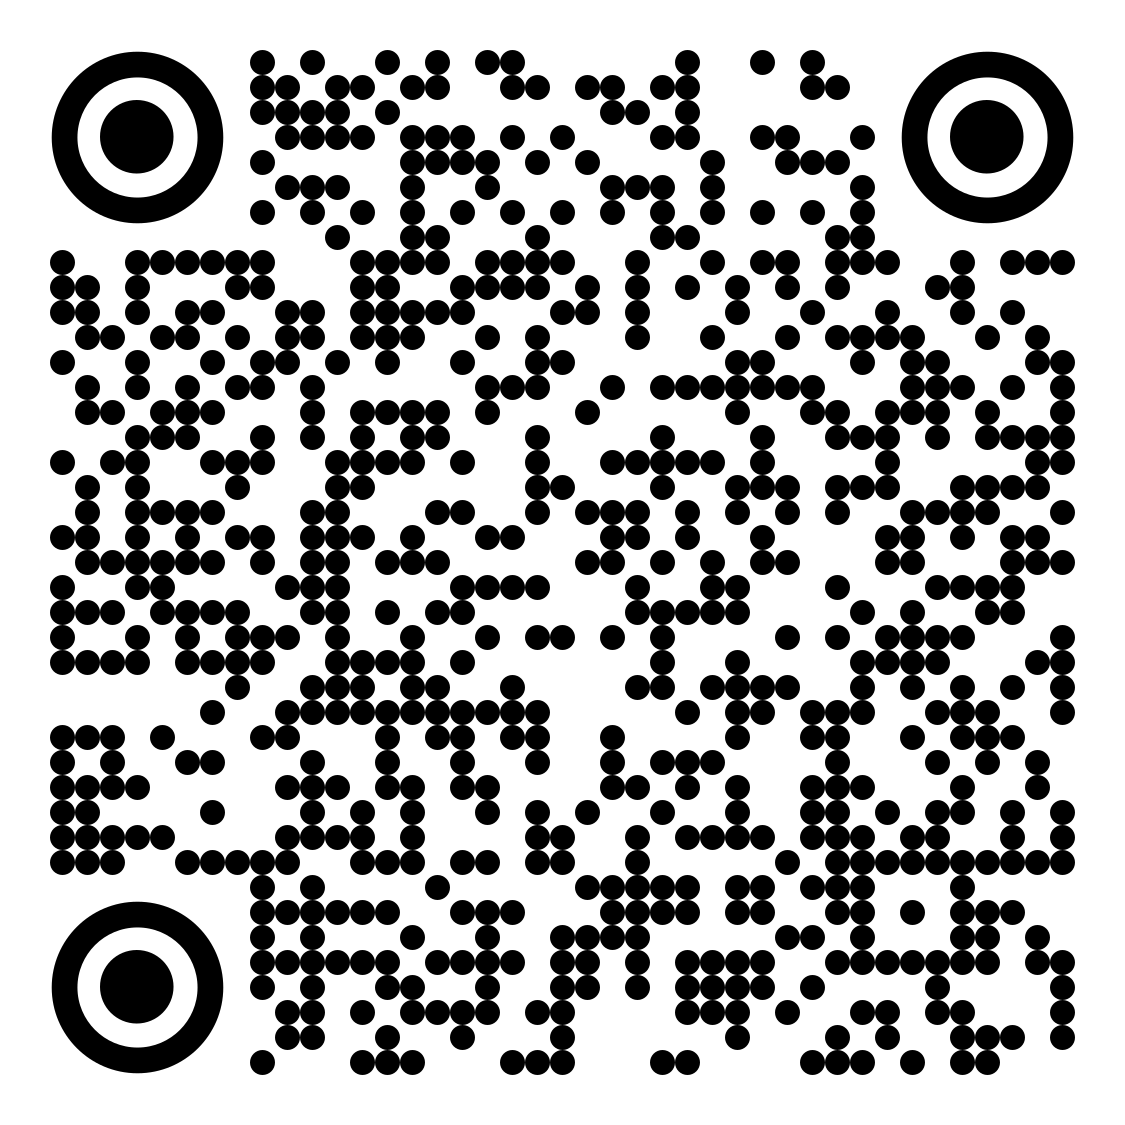
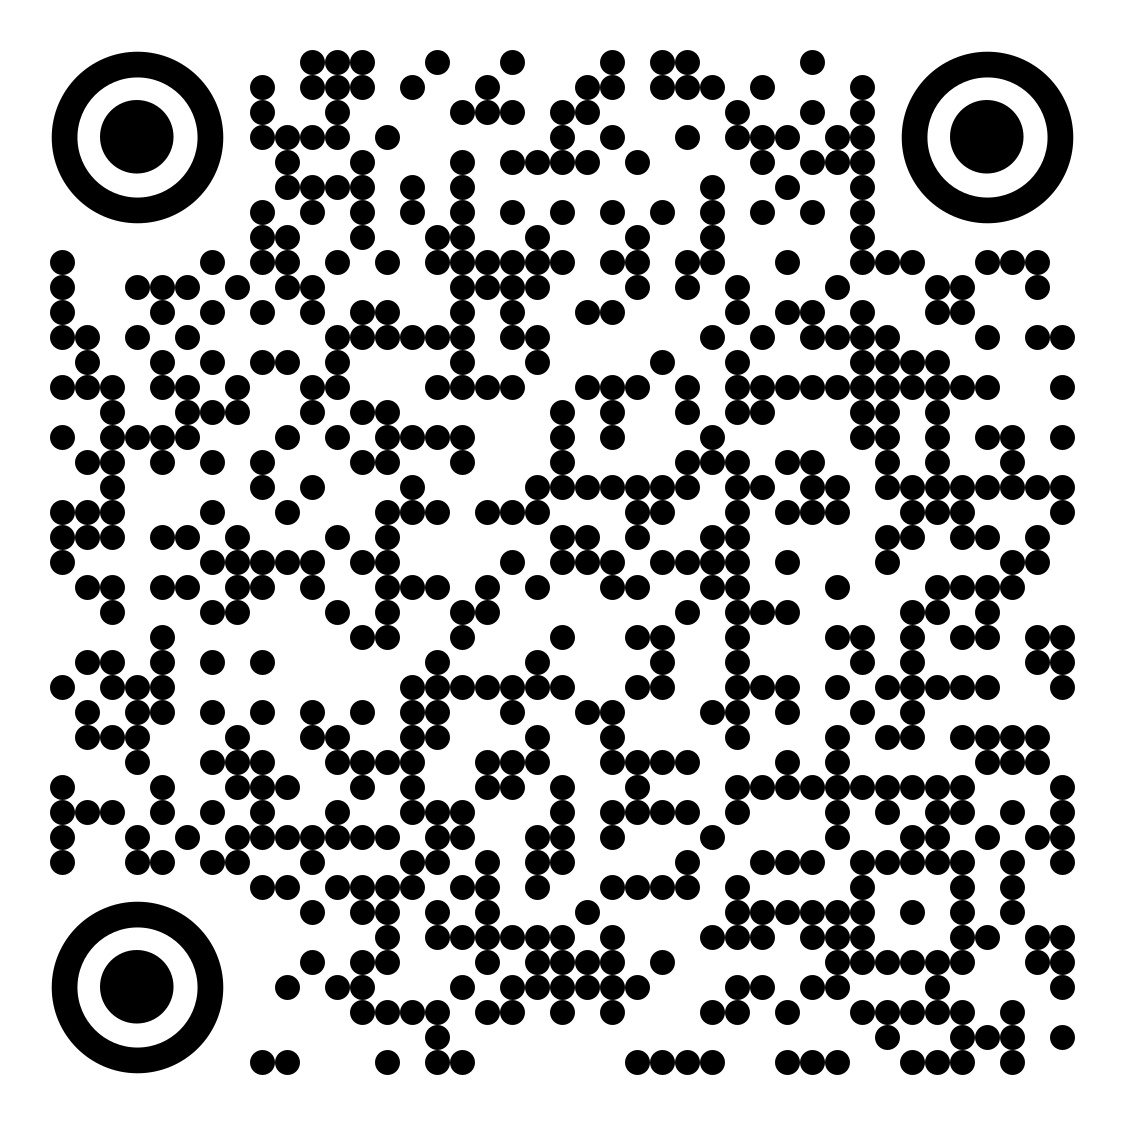
Update QR codes for web

diff --git a/app.js b/app.js
@@ -1,7 +1,7 @@
 const projects = {
   "dobrynya-m2": {
     label: "Добрыня М2",
-    qr: "./assets/dobrynya-m2.png",
+    qr: "./assets/dobrynya-m2.png?v=20260807-qr-2",
     defaultPackage: "Жилой дом. Утепление 200",
     defaultTitle: "Одноэтажный коттедж",
   },
@@ -25,7 +25,7 @@ const projects = {
   },
   "vityaz-m6": {
     label: "Витязь М6",
-    qr: "./assets/vityaz-m6.png",
+    qr: "./assets/vityaz-m6.png?v=20260807-qr-2",
     defaultPackage: "Комфорт",
     defaultTitle: "Одноэтажный коттедж",
   },
@@ -103,7 +103,7 @@ const projects = {
   },
   "zyablikovo-vityaz-m6": {
     label: "Витязь М 6",
-    qr: "./assets/zyablikovo-vityaz-m6.png",
+    qr: "./assets/zyablikovo-vityaz-m6.png?v=20260807-qr-2",
     defaultPackage: "Дачный стандарт",
     defaultTitle: "Одноэтажный коттедж",
   },
@@ -115,7 +115,7 @@ const projects = {
   },
   "zyablikovo-pesnya-4": {
     label: "Песня 4",
-    qr: "./assets/zyablikovo-pesnya-4.png",
+    qr: "./assets/zyablikovo-pesnya-4.png?v=20260807-qr-2",
     defaultPackage: "Жилой дом. Утепление 200",
     defaultTitle: "Одноэтажный коттедж",
   },
